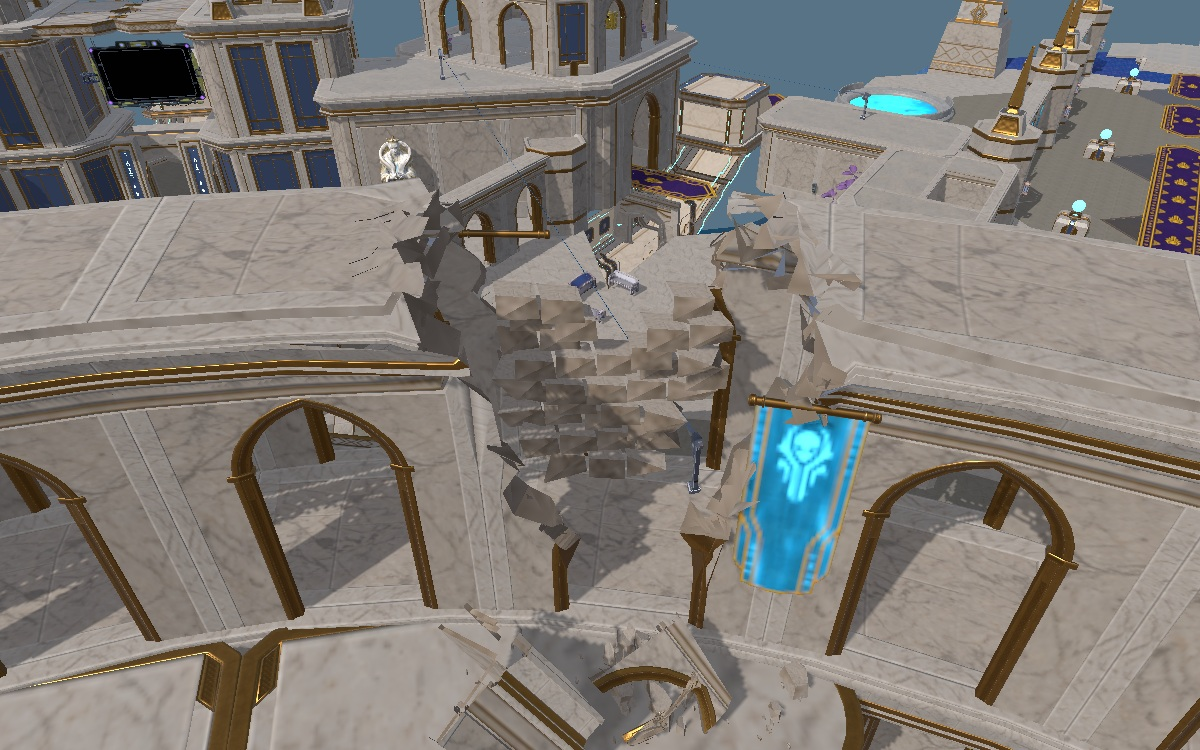
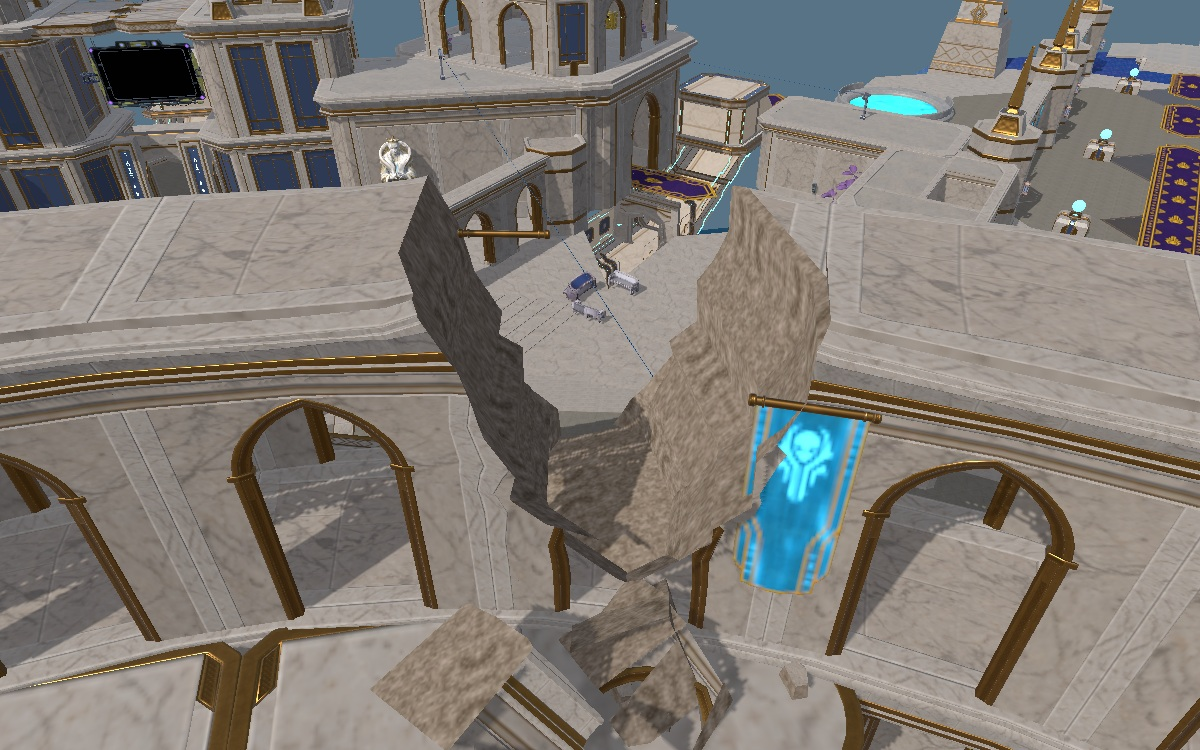
Show the repaired coliseum fractures from close range

Changed region(s): [[0.2467, 0.2453, 0.8325, 1.0], [0.7708, 0.644, 0.8017, 0.6747]]

diff --git a/coliseum/index.html b/coliseum/index.html
@@ -1,1 +1,1 @@
-<!doctype html><html lang="en"><meta charset="utf-8"><meta name="viewport" content="width=device-width,initial-scale=1"><title>Coliseum damage | Extraction Royale</title><style>*{box-sizing:border-box}body{background:#111719;color:#f2f5f3;font:16px system-ui;margin:auto;max-width:1320px;padding:20px}h1{margin-bottom:0}p,figcaption{color:#b8c9c5}section{margin:36px 0}section div{display:grid;grid-template-columns:1fr 1fr;gap:12px}figure{margin:0}img{display:block;width:100%;height:auto}figcaption{margin-bottom:5px}@media(max-width:720px){section div{grid-template-columns:1fr}}</style><h1>Coliseum damage</h1><p>Extraction Royale · Tile 104 · Unity editor captures</p><section><h2>Outer wall</h2><div><figure><figcaption>Before</figcaption><a href="outer-wall-before.jpg"><img src="outer-wall-before.jpg" width="1200" height="750" alt="Outer wall before"></a></figure><figure><figcaption>After</figcaption><a href="outer-wall-after.jpg"><img src="outer-wall-after.jpg" width="1200" height="750" alt="Outer wall after"></a></figure></div></section><section><h2>Upper gallery</h2><div><figure><figcaption>Before</figcaption><a href="upper-gallery-before.jpg"><img src="upper-gallery-before.jpg" width="1200" height="750" alt="Upper gallery before"></a></figure><figure><figcaption>After</figcaption><a href="upper-gallery-after.jpg"><img src="upper-gallery-after.jpg" width="1200" height="750" alt="Upper gallery after"></a></figure></div></section><section><h2>Ramp</h2><div><figure><figcaption>Before</figcaption><a href="ramp-before.jpg"><img src="ramp-before.jpg" width="1200" height="750" alt="Ramp before"></a></figure><figure><figcaption>After</figcaption><a href="ramp-after.jpg"><img src="ramp-after.jpg" width="1200" height="750" alt="Ramp after"></a></figure></div></section></html>
+<!doctype html><html lang="en"><meta charset="utf-8"><meta name="viewport" content="width=device-width,initial-scale=1"><title>Coliseum damage | Extraction Royale</title><style>*{box-sizing:border-box}body{background:#111719;color:#f2f5f3;font:16px system-ui;margin:auto;max-width:1320px;padding:20px}h1{margin-bottom:0}p,figcaption{color:#b8c9c5}section{margin:36px 0}section div{display:grid;grid-template-columns:1fr 1fr 1fr;gap:12px}figure{margin:0}img{display:block;width:100%;height:auto}figcaption{margin-bottom:5px}@media(max-width:720px){section div{grid-template-columns:1fr}}</style><h1>Coliseum damage</h1><p>Extraction Royale · Tile 104 · Unity editor captures</p><section><h2>Outer wall</h2><div><figure><figcaption>Before</figcaption><a href="outer-wall-before.jpg"><img loading="lazy" alt="Outer wall, Before" width="1000" height="630" src="outer-wall-before.jpg"></a></figure><figure><figcaption>After</figcaption><a href="outer-wall-after.jpg"><img loading="lazy" alt="Outer wall, After" width="1000" height="630" src="outer-wall-after.jpg"></a></figure><figure><figcaption>Close view</figcaption><a href="outer-wall-close-view.jpg"><img loading="lazy" alt="Outer wall, Close view" width="1000" height="630" src="outer-wall-close-view.jpg"></a></figure></div></section><section><h2>Upper gallery</h2><div><figure><figcaption>Before</figcaption><a href="upper-gallery-before.jpg"><img loading="lazy" alt="Upper gallery, Before" width="1000" height="630" src="upper-gallery-before.jpg"></a></figure><figure><figcaption>After</figcaption><a href="upper-gallery-after.jpg"><img loading="lazy" alt="Upper gallery, After" width="1000" height="630" src="upper-gallery-after.jpg"></a></figure><figure><figcaption>Close view</figcaption><a href="upper-gallery-close-view.jpg"><img loading="lazy" alt="Upper gallery, Close view" width="1000" height="630" src="upper-gallery-close-view.jpg"></a></figure></div></section><section><h2>Ramp</h2><div><figure><figcaption>Before</figcaption><a href="ramp-before.jpg"><img loading="lazy" alt="Ramp, Before" width="1000" height="630" src="ramp-before.jpg"></a></figure><figure><figcaption>After</figcaption><a href="ramp-after.jpg"><img loading="lazy" alt="Ramp, After" width="1000" height="630" src="ramp-after.jpg"></a></figure><figure><figcaption>Close view</figcaption><a href="ramp-close-view.jpg"><img loading="lazy" alt="Ramp, Close view" width="1000" height="630" src="ramp-close-view.jpg"></a></figure></div></section></html>
